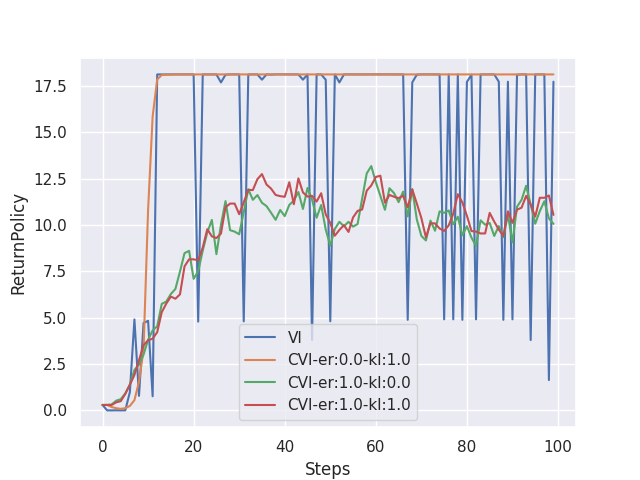
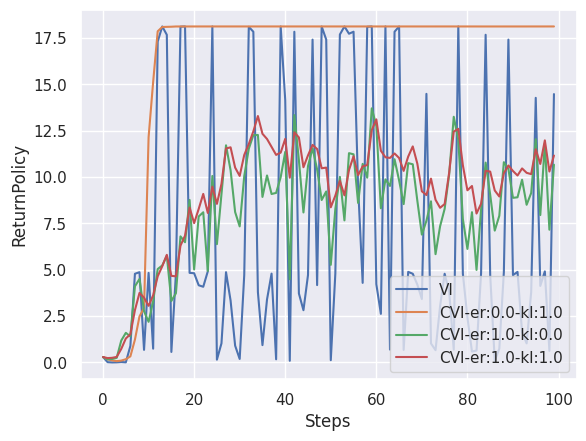
Update: OracleViSolver with learning rate

diff --git a/shinrl/solvers/vi/discrete/oracle_vi/oracle_vi.py b/shinrl/solvers/vi/discrete/oracle_vi/oracle_vi.py
@@ -1,4 +1,5 @@
 import numpy as np
+from scipy import special
 from tqdm import tqdm
 
 from shinrl import utils
@@ -10,16 +11,18 @@ class OracleSolver(Solver):
     def run(self, num_steps=10000):
         for _ in tqdm(range(num_steps)):
             self.record_history()
-            self.update()
-            self.add_noise()
+            new_values = self.compute_new_values()
+            self.update(new_values)
             self.step += 1
 
-    def add_noise(self):
+    def update(self, new_values):
         # to analyze the error tolerance
         noise_scale = self.solve_options["noise_scale"]
+        new_values = new_values + np.random.randn(*new_values.shape) * noise_scale
         values = self.tb_values
-        values = values + np.random.randn(*values.shape) * noise_scale
+        values = values + self.solve_options["lr"] * (new_values - values)
         self.record_array("Values", values)
+        self.set_tb_policy()
 
     def record_history(self):
         if self.step % self.solve_options["evaluation_interval"] == 0:
@@ -28,16 +31,16 @@ class OracleSolver(Solver):
 
 
 class OracleViSolver(OracleSolver):
-    def update(self):
-        # update q
-        curr_q_val = self.tb_values
+    def compute_new_values(self):
+        q = self.tb_values
         discount = self.solve_options["discount"]
-        curr_v_val = np.max(curr_q_val, axis=-1)  # S
-        prev_q = self.env.reward_matrix + discount * (
-            self.env.transition_matrix * curr_v_val
+        v = np.max(q, axis=-1)  # S
+        new_q = self.env.reward_matrix + discount * (
+            self.env.transition_matrix * v
         ).reshape(self.dS, self.dA)
-        self.record_array("Values", np.asarray(prev_q))
+        return np.asarray(new_q)
 
+    def set_tb_policy(self):
         # set greedy policy
         policy = utils.eps_greedy_policy(self.tb_values, eps_greedy=0.0)
         self.record_array("Policy", policy)
@@ -49,22 +52,24 @@ class OracleCviSolver(OracleSolver):
     See http://proceedings.mlr.press/v89/kozuno19a.html.
     """
 
-    def update(self):
+    def compute_new_values(self):
         discount = self.solve_options["discount"]
         er_coef, kl_coef = self.solve_options["er_coef"], self.solve_options["kl_coef"]
         alpha, beta = kl_coef / (er_coef + kl_coef), 1 / (er_coef + kl_coef)
-        curr_pref = self.tb_values
+        p = self.tb_values
 
         # update preference
-        mP = self.max_operator(curr_pref, beta)
-        prev_preference = (
-            alpha * (curr_pref - mP.reshape(-1, 1))
+        mP = self.max_operator(p, beta)
+        new_p = (
+            alpha * (p - mP.reshape(-1, 1))
             + self.env.reward_matrix
             + discount * (self.env.transition_matrix * mP).reshape(self.dS, self.dA)
         )
-        self.record_array("Values", np.asarray(prev_preference))
+        return np.asarray(new_p)
 
-        # set greedy policy
+    def set_tb_policy(self):
+        er_coef, kl_coef = self.solve_options["er_coef"], self.solve_options["kl_coef"]
+        beta = 1 / (er_coef + kl_coef)
         policy = utils.softmax_policy(self.tb_values, beta=beta)
         self.record_array("Policy", policy)
 
@@ -76,7 +81,7 @@ class OracleMviSolver(OracleSolver):
     See https://arxiv.org/abs/2007.14430.
     """
 
-    def update(self):
+    def compute_new_values(self):
         discount = self.solve_options["discount"]
         er_coef, kl_coef = self.solve_options["er_coef"], self.solve_options["kl_coef"]
         # alpha controls the ratio of kl and entropy coefficients
@@ -86,16 +91,20 @@ class OracleMviSolver(OracleSolver):
 
         # update q
         policy = utils.softmax_policy(self.tb_values, beta=1 / tau)
-        curr_q = self.tb_values
-        next_max = np.sum(policy * (curr_q - tau * np.log(policy)), axis=-1)
-        prev_q = (
+        q = self.tb_values
+        next_max = np.sum(policy * (q - tau * np.log(policy)), axis=-1)
+        new_q = (
             self.env.reward_matrix
             + alpha * tau * np.log(policy)
             + discount
             * (self.env.transition_matrix * next_max).reshape(self.dS, self.dA)
         )
-        self.record_array("Values", np.asarray(prev_q))
+        return np.asarray(new_q)
 
-        # set policy
+    def set_tb_policy(self):
+        er_coef, kl_coef = self.solve_options["er_coef"], self.solve_options["kl_coef"]
+        tau = kl_coef + er_coef
         policy = utils.softmax_policy(self.tb_values, beta=1 / tau)
         self.record_array("Policy", policy)
+
+

diff --git a/experiments/runner/tabular_gridcraft.py b/experiments/runner/tabular_gridcraft.py
@@ -9,7 +9,6 @@ import matplotlib
 import matplotlib.pyplot as plt
 import numpy as np
 import pandas as pd
-from celluloid import Camera
 from clearml import Task
 from misc import DISCRETE_SOLVERS, make_valid_options, prepare, to_numeric
 
@@ -51,19 +50,10 @@ def main():
     print(solver_name, "starts...")
 
     fig, axes = plt.subplots(nrows=1, ncols=3, figsize=(20, 6))
-    camera = Camera(fig)
 
     for _ in range(args.epochs):
         # draw results
         solver.run(num_steps=args.steps_per_epoch)
-        env.plot_values(solver.tb_policy, ax=axes[0], title="Policy")
-        env.plot_values(solver.tb_values, ax=axes[1], title="Learned Q Values")
-        env.plot_values(
-            env.compute_action_values(solver.tb_policy),
-            ax=axes[2],
-            title="Oracle Q Values",
-        )
-        camera.snap()
 
     dir_name = os.path.join(
         "results", project_name, task_name, str(solver.solve_options["seed"])
@@ -71,11 +61,6 @@ def main():
     if not os.path.exists(dir_name):
         os.makedirs(dir_name)
     solver.save(os.path.join(dir_name))
-
-    animation = camera.animate()
-    animation.save(
-        os.path.join(dir_name, "values.gif".format(solver.solve_options["seed"]))
-    )
 
 
 if __name__ == "__main__":

diff --git a/shinrl/solvers/vi/discrete/oracle_vi/core.py b/shinrl/solvers/vi/discrete/oracle_vi/core.py
@@ -11,6 +11,7 @@ OPTIONS = {
     "kl_coef": 0.1,
     "max_operator": "mellow_max",
     "noise_scale": 0.0,
+    "lr": 0.01
 }
 
 

diff --git a/README.md b/README.md
@@ -35,11 +35,11 @@ The goal of ShinRL is not to provide state-of-the-art agents but to analyze the 
 To the end, ShinRL provides `experiments` that reproduce various analyses from many studies.
 For example, ``experiments/VI_Error_Propagation`` analyzes the effects of entropy and KL regularization on the error tolerance and convergence speed of VI.
 
-|                               Experiment                               |                       Objective                        |                                              Papers                                              |
-| :--------------------------------------------------------------------: | :----------------------------------------------------: | :----------------------------------------------------------------------------------------------: |
-|                    [Tutorial](experiments/Tutorial)                    |                Learn how to use ShinRL                 |                                                                                                  |
-|         [VI Performance Bound](experiments/VIPerformanceBound)         | Examine the performance bound of various VI algorithms | [Leverage the Average: an Analysis of KL Regularization in RL](https://arxiv.org/abs/2003.14089) |
-| [Monotonic Policy Improvement](experiments/MonotonicPolicyImprovement) |  Demonstrate monotonic policy improvement algorithms   |             [Safe Policy Iteration](http://proceedings.mlr.press/v28/pirotta13.html)             |
+|                                    Experiment                                    |                       Objective                        |                                              Papers                                              |
+| :------------------------------------------------------------------------------: | :----------------------------------------------------: | :----------------------------------------------------------------------------------------------: |
+|                         [Tutorial](experiments/Tutorial)                         |                Learn how to use ShinRL                 |                                                                                                  |
+| [VI Performance Bound](https://shinrl.readthedocs.io/en/latest/experiments.html) | Examine the performance bound of various VI algorithms | [Leverage the Average: an Analysis of KL Regularization in RL](https://arxiv.org/abs/2003.14089) |
+|      [Monotonic Policy Improvement](experiments/MonotonicPolicyImprovement)      |  Demonstrate monotonic policy improvement algorithms   |             [Safe Policy Iteration](http://proceedings.mlr.press/v28/pirotta13.html)             |
 
 
 # :zap: Key features

diff --git a/experiments/VIPerformanceBound/README.md b/experiments/VIPerformanceBound/README.md
@@ -1,7 +1,7 @@
 # Experiment: Performance Bound of VI
 
 For more discussion, see: 
-https://shinrl.readthedocs.io/en/latest/experiments.html
+https://shinrl.readthedocs.io/en/latest/experiments/VIPerformanceBound/experiment.html
 
 ## Goal 
 
